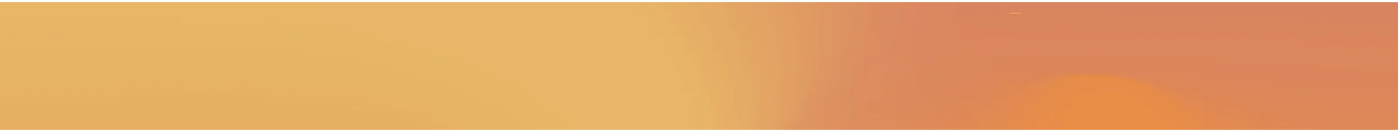
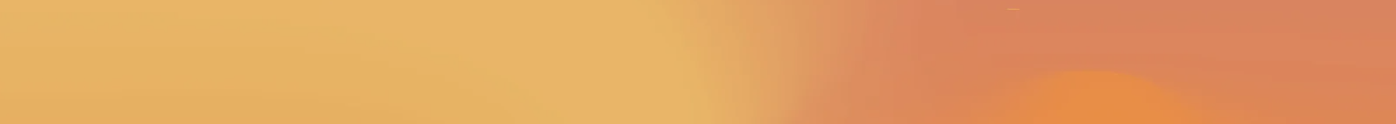
added new bgs and set up page animation for m1

Changed region(s): [[0.0, 0.9677, 1.0, 1.0], [0.0, 0.0, 1.0, 0.0242]]

diff --git a/src/routes/module1_page/m1page.component.jsx b/src/routes/module1_page/m1page.component.jsx
@@ -1,7 +1,129 @@
-import React from "react";
+import React, { useEffect, useRef } from "react";
 import './m1.page.styles.css'; 
+import {gsap} from "gsap";
+import ScrollTrigger from "gsap/ScrollTrigger";
+
+gsap.registerPlugin(ScrollTrigger);
 
 const Module1Page = () => {
+    const topicOneRef = useRef(null);
+    const topicTwoRef = useRef(null);
+    const topicThreeRef = useRef(null);
+    const topicFourRef = useRef(null);
+    const topicFiveRef = useRef(null);
+    const topicSixRef = useRef(null);
+    const topicSevenRef = useRef(null);
+    const topicEightRef = useRef(null);
+    const topicNineRef = useRef(null);
+
+    useEffect(() => {
+        const topicOne = topicOneRef.current;
+        const topicTwo = topicTwoRef.current;
+        const topicThree = topicThreeRef.current;
+        const topicFour = topicFourRef.current;
+        const topicFive = topicFiveRef.current;
+        const topicSix = topicSixRef.current;
+        const topicSeven = topicSevenRef.current;
+        const topicEight = topicEightRef.current;
+        const topicNine = topicNineRef.current;
+
+        if(topicOne && topicTwo) {
+            gsap.to(topicOne, {
+                scrollTrigger: {
+                    trigger: topicOne,
+                    start: "bottom bottom",
+                    endTrigger: topicTwo,
+                    end: "top top",
+                    pin: true,
+                    pinSpacing: false,
+                }
+            });
+        }
+        if(topicTwo && topicThree) {
+            gsap.to(topicTwo, {
+                scrollTrigger: {
+                    trigger: topicTwo,
+                    start: "bottom bottom",
+                    endTrigger: topicThree,
+                    end: "top top",
+                    pin: true,
+                    pinSpacing: false,
+                }
+            });
+        }
+        if(topicThree && topicFour) {
+            gsap.to(topicThree, {
+                scrollTrigger: {
+                    trigger: topicThree,
+                    start: "bottom bottom",
+                    endTrigger: topicFour,
+                    end: "top top",
+                    pin: true,
+                    pinSpacing: false,
+                }
+            });
+        }
+        if(topicFour && topicFive) {
+            gsap.to(topicFour, {
+                scrollTrigger: {
+                    trigger: topicFour,
+                    start: "bottom bottom",
+                    endTrigger: topicFive,
+                    end: "top top",
+                    pin: true,
+                    pinSpacing: false,
+                }
+            });
+        }
+        if(topicFive && topicSix) {
+            gsap.to(topicFive, {
+                scrollTrigger: {
+                    trigger: topicFive,
+                    start: "bottom bottom",
+                    endTrigger: topicSix,
+                    end: "top top",
+                    pin: true,
+                    pinSpacing: false,
+                }
+            });
+        }
+        if(topicSix && topicSeven) {
+            gsap.to(topicSix, {
+                scrollTrigger: {
+                    trigger: topicSix,
+                    start: "bottom bottom",
+                    endTrigger: topicSeven,
+                    end: "top top",
+                    pin: true,
+                    pinSpacing: false,
+                }
+            });
+        }
+        if(topicSeven && topicEight) {
+            gsap.to(topicSeven, {
+                scrollTrigger: {
+                    trigger: topicSeven,
+                    start: "bottom bottom",
+                    endTrigger: topicEight,
+                    end: "top top",
+                    pin: true,
+                    pinSpacing: false,
+                }
+            });
+        }
+        if(topicEight && topicNine) {
+            gsap.to(topicEight, {
+                scrollTrigger: {
+                    trigger: topicEight,
+                    start: "bottom bottom",
+                    endTrigger: topicNine,
+                    end: "top top",
+                    pin: true,
+                    pinSpacing: false,
+                }
+            });
+        }
+    }, []);
 
     return (
         <div className="container">
@@ -9,7 +131,7 @@ const Module1Page = () => {
                 <h2 className="m-title">LESSON PLAN #1:</h2>
                 <h3 className="m-subtitle">WHAT IS SEXUAL & REPRODUCTIVE HEALTH?</h3>
             </section>
-            <section className="topic">
+            <section ref={topicOneRef} className="topic-1">
                 <h4 className="m-subsubtitle">WHAT IS SEXUAL & REPRODUCTIVE HEALTH?</h4>
                 <p>Sexual and reproductive health means your physical, mental, emotional 
                     and social well-being as it relates to your sexuality (<a href="https://myhealth.alberta.ca/sexual-reproductive-health">My Health Alberta</a>). 
@@ -68,7 +190,7 @@ const Module1Page = () => {
                             when equipped with proper SRH tools.</p></li>
                 </ul>
             </section>
-            <section className="topic">
+            <section ref={topicTwoRef} className="topic-2">
                 <h4 className="m-subsubtitle">HEALTH EQUITY</h4>
                 <p>Healthy inequity within SRH recognizes systems that ensure that all persons, regardless of 
                     age, gender, sex, race, immigrant or refugee identities as well as disabilities. Government 
@@ -86,7 +208,7 @@ const Module1Page = () => {
                     <li><p>Redefine clinical practice</p></li>
                 </ul>
             </section>
-            <section className="topic">
+            <section ref={topicThreeRef} className="topic-3">
                 <h4 className="m-subsubtitle">SOCIAL DETERMINANTS OF HEALTHCARE</h4>
                 <p>Social Determinants of healthcare are non-medical factors that may influence health outcomes.</p>
                 <p><b>Poverty and unequal access to healthcare: </b>Those who struggle to afford basic needs often 
@@ -119,7 +241,7 @@ const Module1Page = () => {
                     </ol>
                 </div>
             </section>
-            <section className="topic">
+            <section ref={topicFourRef} className="topic-4">
                 <h4 className="m-subsubtitle">PUBERTY</h4>
                 <h5 className="m-subsubsubtitle">What is puberty?</h5>
                 <p>Period of human development during which an individual becomes capable of sexual reproduction. 
@@ -137,7 +259,7 @@ const Module1Page = () => {
                     In terms of physical changes, boys will get taller, muscles will grow, facial hair, grow hair on their 
                     underarms, develop pimples, and sweat more, and their voices will crack. </p>
             </section>
-            <section className="topic">
+            <section ref={topicFiveRef} className="topic-5">
                 <h4 className="m-subsubtitle">REPRODUCTIVE HEALTH SYSTEMS</h4>
                 <h5 className="m-subsubsubtitle">What function does the reproductive system have in our bodies?</h5>
                 <p>The reproductive system serves to produce the sperm and egg cells that allow us to reproduce. It is also responsible 
@@ -326,7 +448,7 @@ const Module1Page = () => {
                     <li><p><a href="https://classroom.kidshealth.org/classroom/6to8/body/systems/female_reproductive_quiz.pdf">Kidshealth.org</a> has quizzes present for students from grade 6 to 8 to learn about female anatomy.</p></li>
                 </ul>
             </section>
-            <section className="topic">
+            <section ref={topicSixRef} className="topic-6">
                 <h4 className="m-subsubtitle">FEMALE GENTIAL MUTILATION</h4>
                 <p>When teaching or facilitating conversations around anatomy and reproductive health, it is important to keep in mind 
                     factors that may impact how one perceives their own anatomy. If this lesson is for the community members it should 
@@ -445,7 +567,7 @@ const Module1Page = () => {
                     </ul>
                 </div>
             </section>
-            <section className="topic">
+            <section ref={topicSevenRef} className="topic-7">
                 <h4 className="m-subsubtitle">HIV, STI'S AND SAFE SEX</h4>
                 <h5 className="m-subsubsubtitle">What are STI’s?</h5>
                 <ul>
@@ -679,7 +801,7 @@ const Module1Page = () => {
                 <p><a href="https://gnpplus.net/who-we-are/about-us/">Global Network of People Living with HIV (GNP+)</a>, a network 
                     for people living with HIV, run by people living with HIV.</p>
             </section>
-            <section className="topic">
+            <section ref={topicEightRef} className="topic-8">
                 <h4 className="m-subsubtitle">PERIODS AND PERIOD PAIN (MENSTRUAL CARE)</h4>
                 <h5 className="m-subsubsubtitle">What is menstruation and why menstrual care?</h5>
                 <p>Menstruation is the process in which normal vaginal bleeding occurs as part of a woman's monthly cycle. 
@@ -754,7 +876,7 @@ const Module1Page = () => {
                     <li><p><b>Are parents or community groups supportive of people going to school during their period? </b></p></li>
                 </ul>
             </section>
-            <section className="topic">
+            <section ref={topicNineRef} className="topic-9">
                 <h4 className="m-subsubtitle">PREGNANCY</h4>
                 <h5 className="m-subsubsubtitle">Unintended Pregnancies </h5>
                 <p><a href="https://www.cdc.gov/reproductivehealth/contraception/unintendedpregnancy/index.htm">Unintended 

diff --git a/src/routes/module1_page/m1.page.styles.css b/src/routes/module1_page/m1.page.styles.css
@@ -20,8 +20,80 @@ h5{
     font-size: 1rem;
 }
 
-.topic{
+.topic-1{
     padding: 2rem;
+    z-index: -8;
+}
+
+.topic-2{
+    height: 80vh;
+    padding: 2rem;
+    background-image: url('../../assets/pastel-bg.png');
+    background-repeat: no-repeat;
+    background-size: cover;
+    z-index: -7;
+}
+
+.topic-3{
+    padding: 2rem;
+    background-image: url('../../assets/prple-orng-bg.png');
+    background-repeat: no-repeat;
+    background-size: cover;
+    z-index: -6;
+}
+
+.topic-4{
+    height: 80vh;
+    padding: 2rem;
+    background-image: url('../../assets/turqoise-bg.png');
+    background-repeat: no-repeat;
+    background-size: cover;
+    z-index: -5;
+}
+
+.topic-5{
+    padding: 2rem;
+    background-color: white;
+    z-index: -4;
+}
+
+.topic-6{
+    padding: 2rem;
+    background-image: url('../../assets/watercolor-bg.png');
+    background-repeat: no-repeat;
+    background-size: cover;
+    z-index: -3;
+}
+
+.duty-to-report{
+    padding: 2rem;
+    background-image: url('../../assets/sunset-bg.png');
+    background-repeat: no-repeat;
+    background-size: cover;
+}
+
+.topic-7{
+    padding: 2rem;
+    background-image: url('../../assets/pastel2-bg.png');
+    background-repeat: no-repeat;
+    background-size: cover;
+    z-index: -2;
+}
+
+.topic-8{
+    padding: 2rem;
+    background-image: url('../../assets/blue-bg.png');
+    background-repeat: no-repeat;
+    background-size: cover;
+    z-index: -1;
+}
+
+.topic-9{
+    padding: 2rem;
+    background-image: url('../../assets/blue-yellow-bg.png');
+    background-repeat: no-repeat;
+    background-size: cover;
+    z-index: 0;
 }
 
 .m-title{
